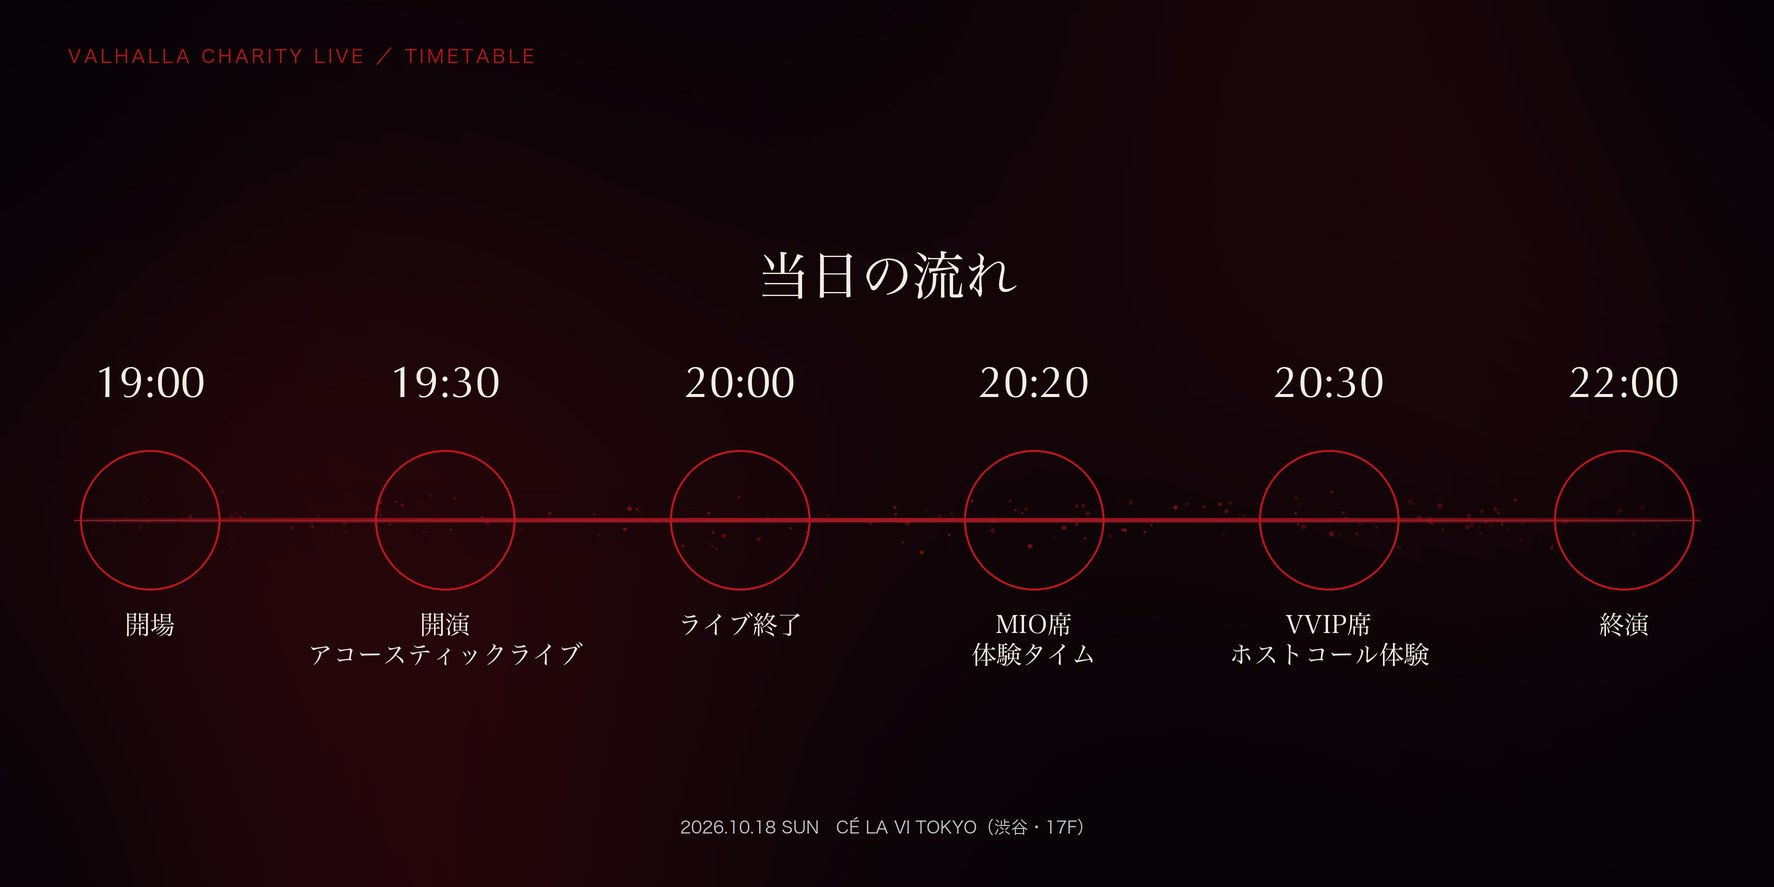
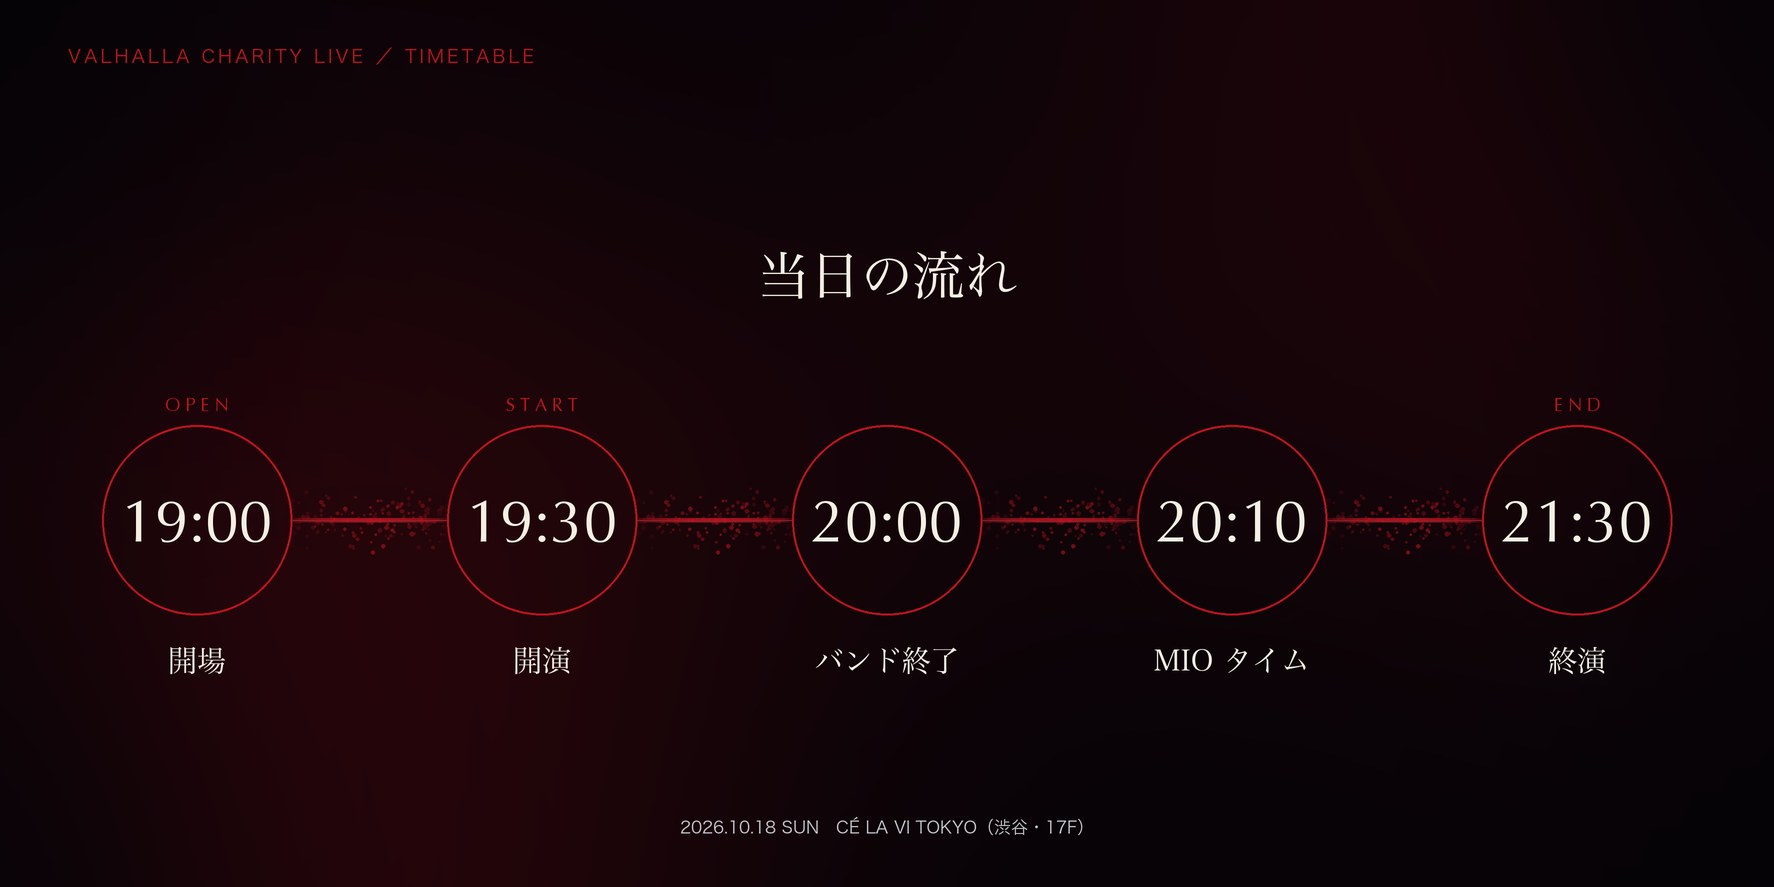
charity: simplify and correct the timetable
kazuma指示により、公開するタイムテーブルを確定。

  19:00 開場 / 19:30 開演 / 20:00 バンド終了 / 20:10 MIOタイム / 21:30 終演

- バンド終了からMIOタイムまで10分の転換を置く
- 終演を22:00から21:30へ修正
- LPに公開状態で残っていた「18:00 機材設置・リハーサル」を削除
  (内部情報であり公開すべきでない)
- timetable_banner を5ノードで再生成し、時刻を大きく表示

⚠ リターン記載の MIO席 20:00〜20:20 / VVIP席 20:30〜 が
   この流れと整合しないため、時刻の確定が必要。

diff --git a/campfire-preview.html b/campfire-preview.html
@@ -71,7 +71,7 @@ code{background:#f0f0f0;padding:1px 5px;border-radius:3px;font-size:13px}
 <h2>4. イベント概要</h2>
 <ul>
 <li><strong>イベント名</strong>：VALHALLA CHARITY LIVE</li>
-<li><strong>日時</strong>：2026年10月18日（日） OPEN 19:00 ／ START 19:30 ／ 終演 22:00</li>
+<li><strong>日時</strong>：2026年10月18日（日） OPEN 19:00 ／ START 19:30 ／ 終演 21:30</li>
 <li><strong>会場</strong>：CÉ LA VI TOKYO（渋谷・17F）</li>
 <li><strong>住所</strong>：東京都渋谷区道玄坂1-2-3 東急プラザ渋谷 17F（渋谷駅直結）</li>
 <li><strong>出演</strong>：VALHALLA（MIO / RAY / KØU）</li>
@@ -90,12 +90,11 @@ code{background:#f0f0f0;padding:1px 5px;border-radius:3px;font-size:13px}
 <img src="assets/charity/timetable_banner.jpg" alt="">
 </figure>
 <ul>
-<li>19:00　開場</li>
-<li>19:30　開演 ／ VALHALLA アコースティックライブ（5〜6曲）</li>
-<li>20:00　ライブ終了</li>
-<li>20:00〜20:20　MIO席 体験タイム</li>
-<li>20:30〜　VVIP席 ホストコール体験</li>
-<li>22:00　終演</li>
+<li><strong>19:00</strong>　開場</li>
+<li><strong>19:30</strong>　開演（VALHALLA アコースティックライブ）</li>
+<li><strong>20:00</strong>　バンド終了</li>
+<li><strong>20:10</strong>　MIO タイム</li>
+<li><strong>21:30</strong>　終演</li>
 </ul>
 <h2>5. 出演者</h2>
 <figure class="img">

diff --git a/charity.html b/charity.html
@@ -496,12 +496,12 @@
   <div class="sub-h">Timetable &amp; Venue</div>
 
   <div class="tt">
-    <div class="row"><div class="tm">18:00</div><div class="ds">機材設置・リハーサル</div></div>
     <div class="row"><div class="tm">19:00</div><div class="ds">開場</div></div>
-    <div class="row"><div class="tm">19:30</div><div class="ds">スタート／アコースティックライブ（5〜6曲）</div></div>
-    <div class="row"><div class="tm">20:00〜20:20</div><div class="ds">MIO席 体験タイム</div></div>
-    <div class="row"><div class="tm">20:30〜</div><div class="ds">VVIP ホストコール体験</div></div>
-    <div class="row"><div class="tm">22:00</div><div class="ds">完全終演</div></div>
+    <div class="row"><div class="tm">19:30</div><div class="ds">開演（アコースティックライブ）</div></div>
+    <div class="row"><div class="tm">20:00</div><div class="ds">バンド終了</div></div>
+    <div class="row"><div class="tm">20:10</div><div class="ds">MIO タイム</div></div>
+    <div class="row"><div class="tm">21:30</div><div class="ds">終演</div></div>
+  </div><div class="ds">完全終演</div></div>
   </div>
 
   <div class="ev">

diff --git a/assets/charity/create_timetable_banner.py b/assets/charity/create_timetable_banner.py
@@ -156,8 +156,15 @@ def ring(draw: ImageDraw.ImageDraw, center: tuple[int, int], diameter: int,
 
 
 def add_nodes(base: Image.Image) -> None:
-    centers_x = (150, 445, 740, 1034, 1329, 1624)
-    cy, diameter = 520, 140
+    # Five equal-size nodes on an exact 345 px rhythm, centered on the canvas.
+    centers_x = (197, 542, 887, 1232, 1577)
+    cy, diameter = 520, 190
+
+    # Keep the crimson ribbon strictly between adjacent circles.
+    radius = diameter // 2
+    for left, right in zip(centers_x, centers_x[1:]):
+        add_light_ribbon(base, y=cy, start=left + radius, end=right - radius)
+
     for x in centers_x:
         add_node_glow(base, (x, cy), diameter)
 
@@ -168,21 +175,20 @@ def add_nodes(base: Image.Image) -> None:
     base.alpha_composite(layer)
 
     td = ImageDraw.Draw(base)
-    time_font = face(LATIN, 44)
-    label_font = face(MINCHO, 25)
-    times = ("19:00", "19:30", "20:00", "20:20", "20:30", "22:00")
-    labels = (
-        "開場",
-        "開演\nアコースティックライブ",
-        "ライブ終了",
-        "MIO席\n体験タイム",
-        "VVIP席\nホストコール体験",
-        "終演",
-    )
-    for x, time, label in zip(centers_x, times, labels):
-        td.text(spos((x, 397)), time, font=time_font, fill=CREAM, anchor="ms")
-        td.multiline_text(spos((x, 612)), label, font=label_font, fill=CREAM,
-                          anchor="ma", align="center", spacing=8 * SCALE)
+    cue_font = face(LATIN, 18)
+    time_font = face(LATIN, 60)
+    label_font = face(MINCHO, 29)
+    cues = ("OPEN", "START", "", "", "END")
+    times = ("19:00", "19:30", "20:00", "20:10", "21:30")
+    labels = ("開場", "開演", "バンド終了", "MIO タイム", "終演")
+    for x, cue, time, label in zip(centers_x, cues, times, labels):
+        if cue:
+            cue_width = sum(td.textlength(char, font=cue_font) for char in cue)
+            cue_width += 5 * SCALE * (len(cue) - 1)
+            draw_tracked(td, (round(x - cue_width / (2 * SCALE)), 394), cue,
+                         cue_font, CRIMSON, 5)
+        td.text(spos((x, cy + 2)), time, font=time_font, fill=CREAM, anchor="mm")
+        td.text(spos((x, 660)), label, font=label_font, fill=CREAM, anchor="mm")
 
 
 def add_typography(base: Image.Image) -> None:
@@ -203,7 +209,6 @@ def add_typography(base: Image.Image) -> None:
 
 def main() -> None:
     canvas = make_background()
-    add_light_ribbon(canvas, y=520, start=74, end=1700)
     add_nodes(canvas)
     add_typography(canvas)
     canvas = canvas.convert("RGB").resize((W, H), Image.Resampling.LANCZOS)

diff --git a/docs/campfire-project-body.md b/docs/campfire-project-body.md
@@ -155,7 +155,7 @@
 ### 4. イベント概要
 
 - **イベント名**：VALHALLA CHARITY LIVE
-- **日時**：2026年10月18日（日） OPEN 19:00 ／ START 19:30 ／ 終演 22:00
+- **日時**：2026年10月18日（日） OPEN 19:00 ／ START 19:30 ／ 終演 21:30
 - **会場**：CÉ LA VI TOKYO（渋谷・17F）
 - **住所**：東京都渋谷区道玄坂1-2-3 東急プラザ渋谷 17F（渋谷駅直結）
 - **出演**：VALHALLA（MIO / RAY / KØU）
@@ -176,12 +176,11 @@
 
 【画像】`assets/charity/timetable_banner.jpg`
 
-- 19:00　開場
-- 19:30　開演 ／ VALHALLA アコースティックライブ（5〜6曲）
-- 20:00　ライブ終了
-- 20:00〜20:20　MIO席 体験タイム
-- 20:30〜　VVIP席 ホストコール体験
-- 22:00　終演
+- **19:00**　開場
+- **19:30**　開演（VALHALLA アコースティックライブ）
+- **20:00**　バンド終了
+- **20:10**　MIO タイム
+- **21:30**　終演
 
 ### 5. 出演者
 
